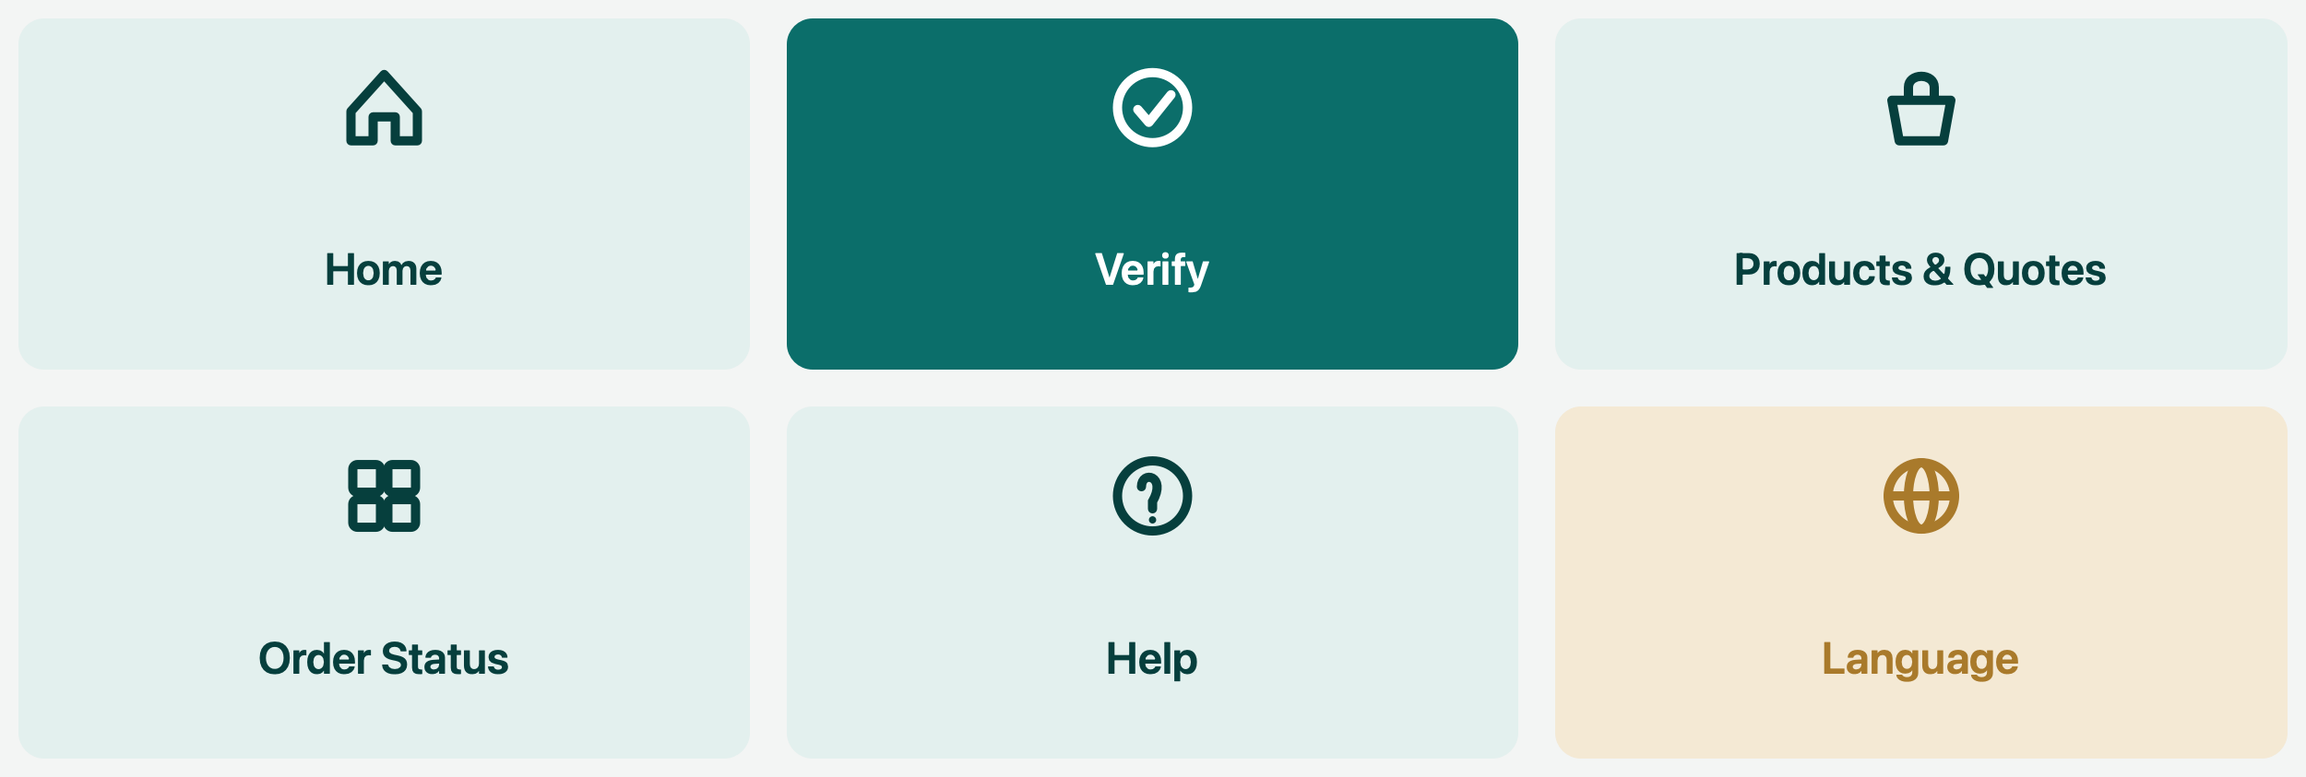
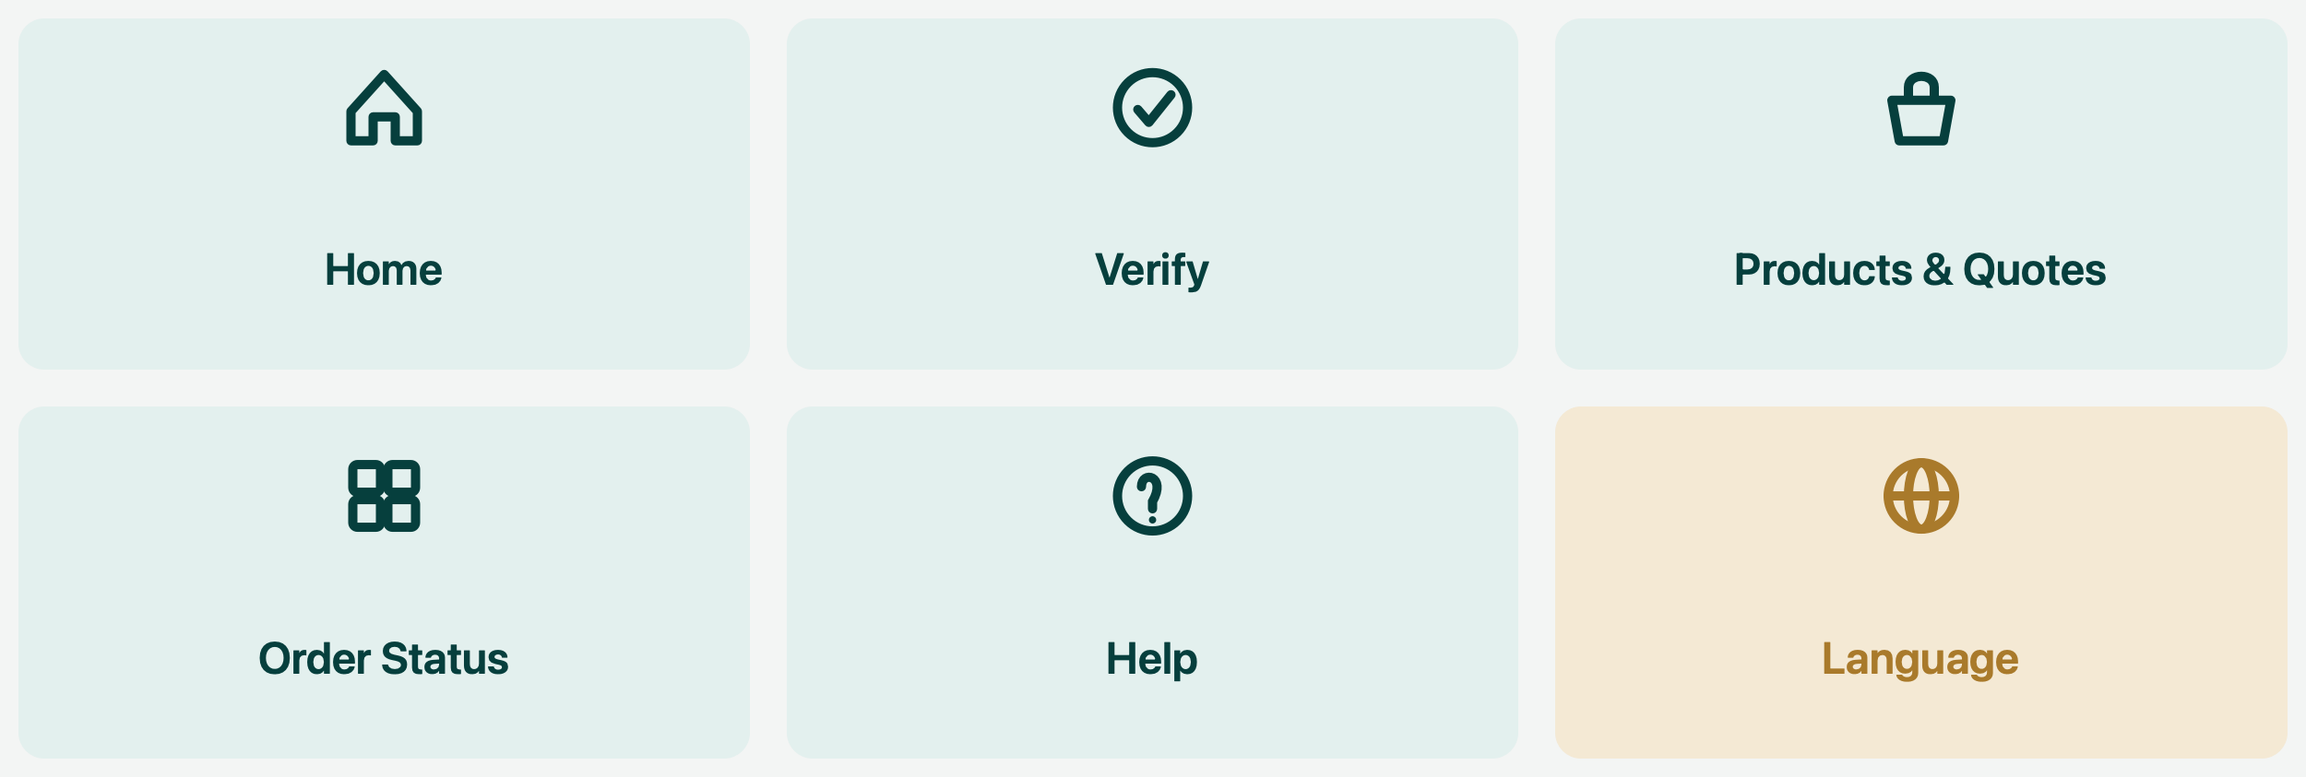
Rlease: v2.0.0. - Odoo LineOA V2 Production Cut

Changed region(s): [[0.3432, 0.0, 0.6864, 0.4935]]

diff --git a/src/line/templates/quotation.ts b/src/line/templates/quotation.ts
@@ -85,7 +85,7 @@ export const createQuotationJourneyFlexMessage = (
   const pairButtons = (left: messagingApi.FlexButton, right: messagingApi.FlexButton): messagingApi.FlexBox => ({
     type: 'box',
     layout: 'horizontal',
-    spacing: 'xs',
+    spacing: 'md',
     contents: [
       { ...left, flex: 1 },
       { ...right, flex: 1 },
@@ -112,7 +112,9 @@ export const createQuotationJourneyFlexMessage = (
         : createMessageActionButton(t('sendInvoice', language), `QUOTE INVOICE SEND ${order.id}`, 'secondary', BRAND.tealTint));
     }
   } else if (!isCancelled && isSent) {
-    bodyActions.push(createMessageActionButton(t('confirm', language), `QUOTE APPROVE ${order.id}`, 'primary', BRAND.teal));
+    bodyActions.push(options.portalLink
+      ? createUriActionButton(t('confirm', language), options.portalLink, 'primary', BRAND.teal)
+      : createMessageActionButton(t('confirm', language), `QUOTE APPROVE ${order.id}`, 'primary', BRAND.teal));
   }
 
   const footerContents: messagingApi.FlexComponent[] = [];
@@ -123,7 +125,7 @@ export const createQuotationJourneyFlexMessage = (
     ];
     footerContents.push(linkRow.length === 1
       ? linkRow[0]
-      : { type: 'box', layout: 'horizontal', spacing: 'xs', contents: linkRow.map(button => ({ ...button, flex: 1 })) });
+      : { type: 'box', layout: 'horizontal', spacing: 'md', contents: linkRow.map(button => ({ ...button, flex: 1 })) });
   }
   if (options.role === 'admin') {
     footerContents.push(createMessageActionButton(t('moreActions', language), `QUOTE MORE ${order.id}`, 'secondary', BRAND.tealTint));
@@ -209,7 +211,7 @@ export const createQuotationJourneyFlexMessage = (
       footer: {
         type: 'box',
         layout: 'vertical',
-        spacing: 'sm',
+        spacing: 'md',
         contents: footerContents.length
           ? footerContents.slice(0, 3)
           : [{ type: 'text', text: ' ', size: 'xs', color: BRAND.surface }],
@@ -264,7 +266,7 @@ export const createQuotationMoreFlexMessage = (
           { type: 'text', text: order.name, size: 'xs', color: '#DDEBE9', margin: 'xs' },
         ],
       },
-      body: { type: 'box', layout: 'vertical', spacing: 'sm', paddingBottom: 'lg', contents: rows },
+      body: { type: 'box', layout: 'vertical', spacing: 'md', paddingBottom: 'lg', contents: rows },
     },
   };
 };
@@ -293,7 +295,7 @@ export const createQuotationEditFlexMessage = (
           {
             type: 'box' as const,
             layout: 'horizontal' as const,
-            spacing: 'xs' as const,
+            spacing: 'md' as const,
             contents: [
               { ...createPrefillButton(t('editItem', language), `QUOTE EDIT ${order.id} ${line.productName},`, 'primary', BRAND.teal), flex: 1 },
               { ...createPrefillButton(tr(language, 'ลบรายการ', 'Remove'), `QUOTE REMOVE ${order.id} ${line.productName}`, 'secondary', BRAND.goldTint), flex: 1 },
@@ -413,7 +415,7 @@ export const createQuoteSendComposerFlexMessage = (
           {
             type: 'box',
             layout: 'horizontal',
-            spacing: 'xs',
+            spacing: 'md',
             contents: [
               { ...createMessageActionButton(t('sendViaLine', language), `${confirmPrefix} LINE`, 'secondary', BRAND.tealTint), flex: 1 },
               { ...createMessageActionButton(t('sendViaEmail', language), `${confirmPrefix} EMAIL${emailSuffix}`, 'secondary', BRAND.tealTint), flex: 1 },
@@ -508,7 +510,7 @@ export const createQuotationListFlexMessage = (
         layout: 'vertical',
         spacing: 'sm',
         contents: [
-          { type: 'box', layout: 'horizontal', spacing: 'sm', contents: [
+          { type: 'box', layout: 'horizontal', spacing: 'md', contents: [
             { ...createDatePickerButton(t('dateFrom', language), bindPostbackData('quote.list.from', userId)), flex: 1 },
             { ...createDatePickerButton(t('dateTo', language), bindPostbackData('quote.list.to', userId)), flex: 1 },
           ] },

diff --git a/src/services/action-otp-complete.ts b/src/services/action-otp-complete.ts
@@ -1,15 +1,31 @@
 import { consumeActionOtpChallengeByToken, getUserLanguage, getUserProfile, setLastActionOtpAt } from './firestore';
 import { sendTargetedFlexMessage, sendTargetedMessage } from '../line/messaging';
 import { DEFAULT_CHANNEL_ID, getBrandTitle, resolveChannelConfig } from '../line/channels';
+import { getSaleOrderPortalLink } from './odoo';
 import { appLogger } from './logger';
 
-export const completeActionOtpByLinkToken = async (token: string): Promise<{ ok: boolean; message: string; channelId?: string }> => {
+/** After action OTP, these commands should open the Odoo portal instead of the identity-verify HTML page. */
+export const portalOrderIdFromPendingCommand = (text: string): number | null => {
+  const trimmed = text.trim();
+  if (/^QUOTE INVOICE SEND\b/i.test(trimmed)) return null;
+  const match = trimmed.match(/^(QUOTE CONFIRM|QUOTE APPROVE|QUOTE INVOICE)\s+(\d+)\b/i);
+  if (!match) return null;
+  const id = Number(match[2]);
+  return Number.isFinite(id) && id > 0 ? id : null;
+};
+
+export const completeActionOtpByLinkToken = async (token: string): Promise<{
+  ok: boolean;
+  message: string;
+  channelId?: string;
+  redirectUrl?: string;
+}> => {
   const consumed = await consumeActionOtpChallengeByToken({ token });
   if (!consumed.ok || !consumed.data) {
     const reason = consumed.error || '';
-    if (reason.includes('action_otp_expired')) return { ok: false, message: 'Verification link expired.' };
-    if (reason.includes('action_otp_locked')) return { ok: false, message: 'Too many attempts. Retry the action in LINE.' };
-    return { ok: false, message: 'Verification link is invalid or already used.' };
+    if (reason.includes('action_otp_expired')) return { ok: false, message: 'This action was not verified. The link expired. Retry from LINE.' };
+    if (reason.includes('action_otp_locked')) return { ok: false, message: 'This action was not verified. Too many attempts. Retry from LINE.' };
+    return { ok: false, message: 'This action was not verified. The link is invalid or already used.' };
   }
 
   await setLastActionOtpAt(consumed.data.userId);
@@ -38,10 +54,19 @@ export const completeActionOtpByLinkToken = async (token: string): Promise<{ ok:
     }
   }
 
+  const trimmed = consumed.data.pendingCommandText;
+  const replayFailed = messages.some(message => /failed to confirm|not found|staff-only|admin-only|ไม่สำเร็จ|ไม่พบ|for sales users/i.test(JSON.stringify(message)));
+  const portalOrderId = replayFailed ? null : portalOrderIdFromPendingCommand(trimmed);
+  const redirectUrl = portalOrderId ? (await getSaleOrderPortalLink(portalOrderId) || undefined) : undefined;
+
   appLogger.info('action_otp_web_verified', {
     gitCommit: process.env.RAILWAY_GIT_COMMIT_SHA || process.env.GIT_COMMIT || null,
-    pending: consumed.data.pendingCommandText.slice(0, 40),
+    pending: trimmed.slice(0, 40),
+    portalRedirect: Boolean(redirectUrl),
   });
 
-  return { ok: true, message: 'Action verified. You can return to LINE now.', channelId };
+  if (redirectUrl) {
+    return { ok: true, message: 'Action verified. Opening the quotation.', channelId, redirectUrl };
+  }
+  return { ok: true, message: 'Action verified. Return to LINE for the next step.', channelId };
 };

diff --git a/src/services/i18n.ts b/src/services/i18n.ts
@@ -61,17 +61,17 @@ export const UI_STRINGS = {
   // "Download PDF", and a longer label gets visually clipped by the LINE
   // client itself (its width-based clipping, not the 20-char cap below).
   viewFullQuotation: { en: 'View Quote', th: 'ดูใบเสนอราคา' },
-  quoteSentToAdmin: { en: 'Sent to the customer for approval.', th: 'ส่งให้ลูกค้าเพื่ออนุมัติแล้ว' },
-  sentViaLine: { en: 'Sent to the customer on LINE.', th: 'ส่งให้ลูกค้าทาง LINE แล้ว' },
+  quoteSentToAdmin: { en: 'Quotation sent to the customer to Confirm or Approve.', th: 'ส่งใบเสนอราคาให้ลูกค้าเพื่อยืนยันหรืออนุมัติแล้ว' },
+  sentViaLine: { en: 'Quotation sent to the customer on LINE to Confirm or Approve.', th: 'ส่งใบเสนอราคาให้ลูกค้าทาง LINE เพื่อยืนยันหรืออนุมัติแล้ว' },
   sentViaEmail: { en: 'Sent to the customer by email.', th: 'ส่งให้ลูกค้าทางอีเมลแล้ว' },
-  sentViaBoth: { en: 'Sent to the customer on LINE and by email.', th: 'ส่งให้ลูกค้าทาง LINE และอีเมลแล้ว' },
+  sentViaBoth: { en: 'Quotation sent on LINE and by email for the customer to Confirm or Approve.', th: 'ส่งใบเสนอราคาทาง LINE และอีเมลให้ลูกค้าเพื่อยืนยันหรืออนุมัติแล้ว' },
   sendViaLine: { en: 'Send LINE', th: 'ส่ง LINE' },
   sendViaEmail: { en: 'Send Email', th: 'ส่งอีเมล' },
   sendViaBoth: { en: 'Send both', th: 'ส่งทั้งคู่' },
   phoneField: { en: 'Phone', th: 'เบอร์โทร' },
   quoteNotLinked: {
-    en: 'This customer has not verified with the bot yet, so LINE cannot message them. Ask them to message the bot and complete VERIFY first.',
-    th: 'ลูกค้ารายนี้ยังไม่ได้ยืนยันตัวตนกับบอท จึงยังส่งข้อความทาง LINE ไม่ได้ กรุณาให้ลูกค้าทักบอทและทำการ VERIFY ก่อน',
+    en: 'LINE cannot message this customer yet. Ask them to open this Official Account first so the quotation can be delivered. They do not need to VERIFY just to receive it.',
+    th: 'ยังส่งข้อความทาง LINE ให้ลูกค้ารายนี้ไม่ได้ กรุณาให้ลูกค้าทัก Official Account นี้ก่อน จึงจะส่งใบเสนอราคาได้ ลูกค้าไม่ต้อง VERIFY เพียงเพื่อรับใบเสนอราคา',
   },
   quoteNotYours: {
     en: "This quotation isn't linked to your account.",

diff --git a/src/line/quote-notify.ts b/src/line/quote-notify.ts
@@ -1,11 +1,9 @@
 import { createQuotationJourneyFlexMessage } from './templates';
-import { DEFAULT_CHANNEL_ID, getBrandTitle } from './channels';
+import { DEFAULT_CHANNEL_ID } from './channels';
 import { sendTargetedFlexMessage } from './messaging';
 import { getPartnerById, getSaleOrderPdfLink, getSaleOrderPortalLink } from '../services/odoo';
 import type { OdooSaleOrder } from '../services/odoo/types';
-import { findVerifiedUserIdByPartnerId, findLineUserIdByPhone, getUserLanguage, getUserProfile, listVerifiedSalesLineUserIds } from '../services/firestore';
-import { startOdooUserVerification } from '../services/user-verification';
-import { createBotTextFlexMessage } from './templates';
+import { findVerifiedUserIdByPartnerId, findLineUserIdByPhone, getUserLanguage, listVerifiedSalesLineUserIds } from '../services/firestore';
 import { getErpAdapter } from '../erp/registry';
 
 export type QuoteSendChannel = 'line' | 'email' | 'both';
@@ -39,10 +37,9 @@ const getOrderLinks = async (orderId: number) => {
 };
 
 /**
- * Push the journey Flex card to the verified customer (LINE, by phone or
- * linked Odoo partner) and to verified Odoo sales users on LINE (plus any
- * ADMIN_USER_ID operators). The actor already received a reply, so they
- * are skipped on the LINE push. LINE admin is not required for sales.
+ * Push the journey Flex card to the customer (LINE, by phone or linked
+ * partner — they do not need identity VERIFY to receive it) and to verified
+ * Odoo sales users. The actor already received a reply, so they are skipped.
  */
 export const notifyQuoteParties = async (input: {
   order: OdooSaleOrder;
@@ -69,29 +66,6 @@ export const notifyQuoteParties = async (input: {
       createQuotationJourneyFlexMessage(input.order, { role: 'customer', ...links }, language),
       channelId,
     );
-    const customerProfile = await getUserProfile(customerLineId);
-    if (!customerProfile.odooVerified && partner?.phone) {
-      const challenge = await startOdooUserVerification({
-        userId: customerLineId,
-        rawPhone: partner.phone,
-        language,
-        agentName: getBrandTitle(language),
-        channelId,
-      });
-      if (challenge.link) {
-        await sendTargetedFlexMessage(
-          [customerLineId],
-          createBotTextFlexMessage({
-            title: language === 'en' ? 'Verify your number' : 'ยืนยันเบอร์ของคุณ',
-            body: challenge.message,
-            language,
-            tone: 'info',
-            linkAction: { label: challenge.linkLabel || (language === 'en' ? 'Verify now' : 'ยืนยันตอนนี้'), uri: challenge.link },
-          }),
-          channelId,
-        );
-      }
-    }
   }
 
   const salesIds = notifySales

diff --git a/src/line/handlers/quotation.ts b/src/line/handlers/quotation.ts
@@ -179,12 +179,10 @@ const parseOrderIdAndMessage = (text: string, prefix: string): { orderId: number
   return { orderId, message };
 };
 
-// Push the customer their order's current card after an admin-side state
-// change (e.g. QUOTE CONFIRM) that they weren't the one who triggered.
-// Silent no-op — not a failure — when the order has no linked partner or
-// that partner hasn't verified with the bot yet (same platform constraint
-// as quote-send); best-effort beyond that, since it's a courtesy push on
-// top of a state change that already succeeded.
+// Push the customer their order's current card after a staff-side state
+// change (e.g. QUOTE CONFIRM). Silent no-op when LINE cannot reach them
+// yet (they have not messaged the OA). They do not need identity VERIFY
+// to receive the quotation.
 const sendChannelSummary = (
   language: UserLanguage,
   result: { customerLineId: string | null; emailed: boolean },
@@ -196,7 +194,7 @@ const sendChannelSummary = (
   if (wanted === 'email' && !emailOk) return t('noPartnerEmail', language);
   if (!lineOk && !emailOk) return t('quoteNotLinked', language);
   if (lineOk && emailOk) return t('sentViaBoth', language);
-  if (lineOk) return t('sentViaLine', language);
+  if (lineOk) return t('quoteSentToAdmin', language);
   return t('sentViaEmail', language);
 };
 
@@ -259,7 +257,13 @@ const quoteConfirmHandler: CommandHandler = {
       .catch(err => console.warn('quote-confirm: customer notify failed (non-fatal):', err));
 
     const { portalLink, pdfLink } = await getOrderLinks(orderId);
-    return [createQuotationJourneyFlexMessage(order, staffCardOptions(profile, { portalLink, pdfLink }, order), userLanguage)];
+    return [
+      botText(
+        tr(userLanguage, 'ยืนยันใบเสนอราคาแล้ว หน้าอนุมัติของลูกค้าพร้อมเปิด', 'Quotation confirmed. The customer quote page is ready to approve.'),
+        userLanguage,
+      ),
+      createQuotationJourneyFlexMessage(order, staffCardOptions(profile, { portalLink, pdfLink }, order), userLanguage),
+    ];
   },
 };
 

diff --git a/src/http/verify-routes.ts b/src/http/verify-routes.ts
@@ -5,8 +5,8 @@ import { oaChatDeepLink, DEFAULT_CHANNEL_ID } from '../line/channels';
 import { escapeHtml } from '../utils/html';
 import { verifyLinkLimiter } from './middleware';
 
-const verificationPage = (ok: boolean, message: string, channelId?: string) => {
-        const title = ok ? 'Verification Completed' : 'Verification Failed';
+const statusPage = (ok: boolean, message: string, channelId?: string, titles?: { ok: string; fail: string }) => {
+        const title = ok ? (titles?.ok || 'Verification Completed') : (titles?.fail || 'Verification Failed');
         const returnLink = oaChatDeepLink(channelId || DEFAULT_CHANNEL_ID);
         const cta = ok ? 'Return to chat' : 'Open LINE';
         const button = returnLink
@@ -22,12 +22,21 @@ export const registerVerifyRoutes = (app: Express): void => {
     app.get('/verify/odoo', verifyLinkLimiter, async (req, res) => {
         const token = String(req.query.token || '');
         const result = await verifyOdooUserByToken(token);
-        res.status(result.ok ? 200 : 400).type('html').send(verificationPage(result.ok, result.message, result.channelId));
+        res.status(result.ok ? 200 : 400).type('html').send(statusPage(result.ok, result.message, result.channelId));
     });
 
     app.get('/verify/action', verifyLinkLimiter, async (req, res) => {
         const token = String(req.query.token || '');
         const result = await completeActionOtpByLinkToken(token);
-        res.status(result.ok ? 200 : 400).type('html').send(verificationPage(result.ok, result.message, result.channelId));
+        if (result.ok && result.redirectUrl) {
+          res.redirect(302, result.redirectUrl);
+          return;
+        }
+        res.status(result.ok ? 200 : 400).type('html').send(statusPage(
+          result.ok,
+          result.message,
+          result.channelId,
+          { ok: 'Done', fail: 'Action not verified' },
+        ));
     });
 };

diff --git a/tests/templates-ux.test.ts b/tests/templates-ux.test.ts
@@ -85,6 +85,7 @@ describe('quotation journey state actions', () => {
     expect(bubble.footer?.contents).toHaveLength(3);
     expect(JSON.stringify(bubble.body)).toContain('QUOTE CONFIRM 17');
     expect(JSON.stringify(bubble.body)).toContain('QUOTE SEND 17');
+    expect(JSON.stringify(bubble.body)).toContain('"spacing":"md"');
     expect(JSON.stringify(bubble.body)).not.toContain('QUOTE MORE');
     expect(JSON.stringify(bubble.footer?.contents?.[0])).toContain('View Quote');
     expect(JSON.stringify(bubble.footer?.contents?.[0])).toContain('Download PDF');
@@ -125,10 +126,11 @@ describe('quotation journey state actions', () => {
       { role: 'customer', portalLink: 'https://example.com/q', pdfLink: 'https://example.com/p' },
       'en',
     ));
-    expect(json).toContain('QUOTE APPROVE 17');
+    expect(json).toContain('https://example.com/q');
     expect(json).toContain('Confirm');
     expect(json).toContain('View Quote');
     expect(json).toContain('Download PDF');
+    expect(json).not.toContain('QUOTE APPROVE 17');
     expect(json).not.toContain('NAV HOME');
     expect(json).not.toContain('QUOTE CONFIRM');
     expect(json).not.toContain('QUOTE SEND');

diff --git a/tests/action-otp-gate.test.ts b/tests/action-otp-gate.test.ts
@@ -1,5 +1,6 @@
 import { describe, expect, it } from 'vitest';
 import { isGatedMutation } from '../src/line/handlers/action-otp';
+import { portalOrderIdFromPendingCommand } from '../src/services/action-otp-complete';
 
 describe('isGatedMutation', () => {
   it('gates the quote lifecycle mutations', () => {
@@ -36,5 +37,18 @@ describe('isGatedMutation', () => {
 
   it('is not fooled by a prefix appearing mid-string', () => {
     expect(isGatedMutation('NOT A QUOTE CREATE COMMAND')).toBe(false);
+  });
+});
+
+describe('portalOrderIdFromPendingCommand', () => {
+  it('opens the Odoo quote page after Confirm or Approve', () => {
+    expect(portalOrderIdFromPendingCommand('QUOTE CONFIRM 17')).toBe(17);
+    expect(portalOrderIdFromPendingCommand('QUOTE APPROVE 17')).toBe(17);
+    expect(portalOrderIdFromPendingCommand('QUOTE INVOICE 17')).toBe(17);
+  });
+
+  it('returns to chat after Send', () => {
+    expect(portalOrderIdFromPendingCommand('QUOTE SEND 17')).toBeNull();
+    expect(portalOrderIdFromPendingCommand('QUOTE INVOICE SEND 17')).toBeNull();
   });
 });

diff --git a/src/line/templates/navigation.ts b/src/line/templates/navigation.ts
@@ -47,7 +47,7 @@ export const createServiceHomeFlexMessage = (
           return createTapRow(
             `${SERVICE_ICON[service.key] || ''} ${service.label}`.trim(),
             `NAV ${service.key}`,
-            active || !highlightVerify ? BRAND.teal : BRAND.tealTint,
+            active ? BRAND.gold : !highlightVerify ? BRAND.teal : BRAND.tealTint,
             active || !highlightVerify ? '#FFFFFF' : BRAND.tealStrong,
             'lg',
           );
@@ -56,7 +56,7 @@ export const createServiceHomeFlexMessage = (
       footer: {
         type: 'box',
         layout: 'horizontal',
-        spacing: 'sm',
+        spacing: 'md',
         contents: [
           { ...createTapRow(`🌐 ${t('languageToggle', language)}`, language === 'en' ? 'LANG TH' : 'LANG EN', BRAND.tealTint, BRAND.tealStrong, 'lg'), flex: 1 },
           { ...createTapRow(`📖 ${t('guide', language)}`, 'GUIDE', BRAND.tealTint, BRAND.tealStrong, 'lg'), flex: 1 },

diff --git a/tests/templates-nav.test.ts b/tests/templates-nav.test.ts
@@ -27,7 +27,7 @@ describe('NAV HOME rounded boxes', () => {
     expect(row?.contents?.[0]?.weight).toBeUndefined();
   });
 
-  it('keeps Verify teal when the viewer is not an Odoo user yet', () => {
+  it('keeps Verify gold when the viewer is not an Odoo user yet', () => {
     const message = createServiceHomeFlexMessage(
       [{ key: 'VERIFY', label: 'Verify account' }, { key: 'commerce', label: 'Products & Quotes' }],
       'en',
@@ -35,7 +35,7 @@ describe('NAV HOME rounded boxes', () => {
       true,
     );
     const bubble = message.contents as { body?: { contents?: Array<Record<string, unknown>> } };
-    expect(bubble.body?.contents?.[0]?.backgroundColor).toBe(BRAND.teal);
+    expect(bubble.body?.contents?.[0]?.backgroundColor).toBe(BRAND.gold);
     expect(bubble.body?.contents?.[1]?.backgroundColor).toBe(BRAND.tealTint);
   });
 

diff --git a/src/line/templates/catalog.ts b/src/line/templates/catalog.ts
@@ -120,7 +120,7 @@ export const createProductCardFlexMessage = (productName: string, price: number,
           {
             type: 'box',
             layout: 'horizontal',
-            spacing: 'xs',
+            spacing: 'md',
             contents: [
               { ...createMessageActionButton(t('searchAgain', language), 'FORM PRODUCT FIND', 'secondary', BRAND.tealTint), flex: 1 },
               { ...createMessageActionButton(t('home', language), 'NAV HOME', 'secondary', BRAND.goldTint), flex: 1 },

diff --git a/src/line/templates/guide.ts b/src/line/templates/guide.ts
@@ -110,7 +110,7 @@ export const createGuideCategoryFlexMessage = (category: CommandCategoryKey, lan
       footer: {
         type: 'box',
         layout: 'horizontal',
-        spacing: 'sm',
+        spacing: 'md',
         contents: [
           { ...createMessageActionButton(language === 'en' ? 'Back' : 'ย้อนกลับ', 'GUIDE', 'secondary', BRAND.goldTint), flex: 1 },
           { ...createMessageActionButton(t('home', language), 'NAV HOME', 'secondary', BRAND.goldTint), flex: 1 },
